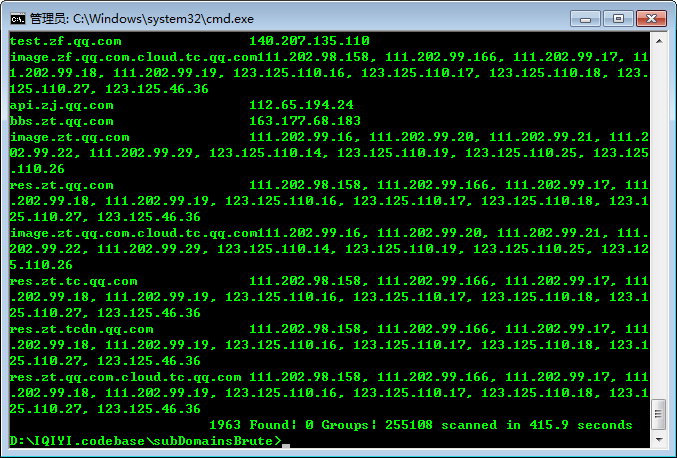
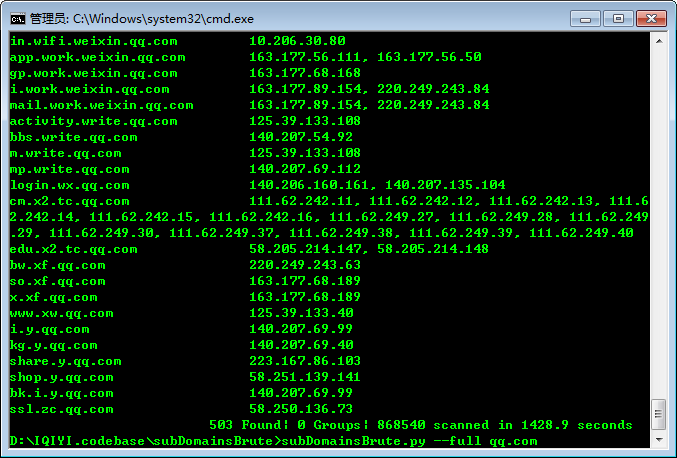
bug fixed

diff --git a/subDomainsBrute.py b/subDomainsBrute.py
@@ -28,7 +28,7 @@ class SubNameBrute:
         self.ignore_intranet = options.i
         self.scan_count = self.found_count = 0
         self.console_width = getTerminalSize()[0] - 2
-        self.resolvers = [dns.resolver.Resolver() for _ in range(options.threads)]
+        self.resolvers = [dns.resolver.Resolver(configure=False) for _ in range(options.threads)]
         for _ in self.resolvers:
             _.lifetime = _.timeout = 10.0
         self.print_count = 0
@@ -48,7 +48,8 @@ class SubNameBrute:
         self.outfile = open(outfile, 'w')
         self.ip_dict = {}
         self.found_subs = set()
-        self.ex_resolver = dns.resolver.Resolver()
+        self.ex_resolver = dns.resolver.Resolver(configure=False)
+        self.ex_resolver.nameservers = self.dns_servers
 
     def _load_dns_servers(self):
         print '[+] Validate DNS servers ...'
@@ -161,10 +162,10 @@ class SubNameBrute:
                             _set.add(item)
                             self.next_subs.append(item)
 
-    def _print_msg(self, _msg=None):
+    def _print_msg(self, _msg=None, _found_msg=False):
         if _msg is None:
             self.print_count += 1
-            if self.print_count < 1000:
+            if self.print_count < 100:
                 return
             self.print_count = 0
             msg = '%s Found| %s Groups| %s scanned in %.1f seconds' % (
@@ -174,6 +175,10 @@ class SubNameBrute:
             sys.stdout.write('\r' + _msg + ' ' * (self.console_width - len(_msg)))
         else:
             sys.stdout.write('\r' + _msg + ' ' * (self.console_width - len(_msg)) + '\n')
+            if _found_msg:
+                msg = '%s Found| %s Groups| %s scanned in %.1f seconds' % (
+                    self.found_count, self.queue.qsize(), self.scan_count, time.time() - self.start_time)
+                sys.stdout.write('\r' + ' ' * (self.console_width - len(msg)) + msg)
         sys.stdout.flush()
 
     @staticmethod
@@ -199,10 +204,10 @@ class SubNameBrute:
 
     def _scan(self, j):
         self.resolvers[j].nameservers = [self.dns_servers[j % self.dns_count]]
-
         while not self.queue.empty():
             try:
-                item = self.queue.get(timeout=2.0)[1]
+                item = self.queue.get(timeout=1.0)[1]
+                self.scan_count += 1
             except:
                 break
             self._print_msg()
@@ -226,8 +231,10 @@ class SubNameBrute:
                 else:
                     sub = item
 
+                if sub in self.found_subs:
+                    continue
+
                 cur_sub_domain = sub + '.' + self.target
-                self.scan_count += 1
                 _sub = sub.split('.')[-1]
                 try:
                     answers = self.resolvers[j].query(cur_sub_domain)
@@ -235,6 +242,7 @@ class SubNameBrute:
                     answers = self.ex_resolver.query(cur_sub_domain)
 
                 if answers:
+                    self.found_subs.add(sub)
                     ips = ', '.join(sorted([answer.address for answer in answers]))
                     if ips in ['1.1.1.1', '127.0.0.1', '0.0.0.0']:
                         continue
@@ -242,12 +250,8 @@ class SubNameBrute:
                     if self.ignore_intranet and SubNameBrute.is_intranet(answers[0].address):
                         continue
 
-                    if sub in self.found_subs:
-                        continue
-                    else:
-                        self.found_subs.add(sub)
-
                     try:
+                        self.scan_count += 1
                         answers = self.resolvers[j].query(cur_sub_domain, 'cname')
                         cname = answers[0].target.to_unicode().rstrip('.')
                         if cname.endswith(self.target) and cname not in self.found_subs:
@@ -256,22 +260,24 @@ class SubNameBrute:
                             self.queue.put((0, cname_sub))
 
                     except:
-                        if (_sub, ips) not in self.ip_dict:
-                            self.ip_dict[(_sub, ips)] = 1
-                        else:
-                            self.ip_dict[(_sub, ips)] += 1
+                        continue
 
-                        if ips not in self.ip_dict:
-                            self.ip_dict[ips] = 1
-                        else:
-                            self.ip_dict[ips] += 1
+                    if (_sub, ips) not in self.ip_dict:
+                        self.ip_dict[(_sub, ips)] = 1
+                    else:
+                        self.ip_dict[(_sub, ips)] += 1
 
-                        if self.ip_dict[(_sub, ips)] > 3 or self.ip_dict[ips] > 6:
-                            continue
+                    if ips not in self.ip_dict:
+                        self.ip_dict[ips] = 1
+                    else:
+                        self.ip_dict[ips] += 1
+
+                    if self.ip_dict[(_sub, ips)] > 3 or self.ip_dict[ips] > 6:
+                        continue
 
                     self.found_count += 1
                     msg = cur_sub_domain.ljust(30) + ips
-                    self._print_msg(msg)
+                    self._print_msg(msg, _found_msg=True)
                     self._print_msg()
                     self.outfile.write(cur_sub_domain.ljust(30) + '\t' + ips + '\n')
                     self.outfile.flush()
@@ -286,14 +292,12 @@ class SubNameBrute:
                 pass
             except (dns.resolver.NoNameservers, dns.resolver.NoAnswer, dns.exception.Timeout) as e:
                 pass
-            except Exception, e:
+            except Exception as e:
                 import traceback
                 traceback.print_exc()
                 with open('errors.log', 'a') as errFile:
                     errFile.write('[%s] %s %s\n' % (type(e), cur_sub_domain, e))
-                import traceback
-                traceback.print_exc()
-        self._print_msg()
+            self._print_msg()
 
     def run(self):
         threads = [gevent.spawn(self._scan, i) for i in range(self.options.threads)]
